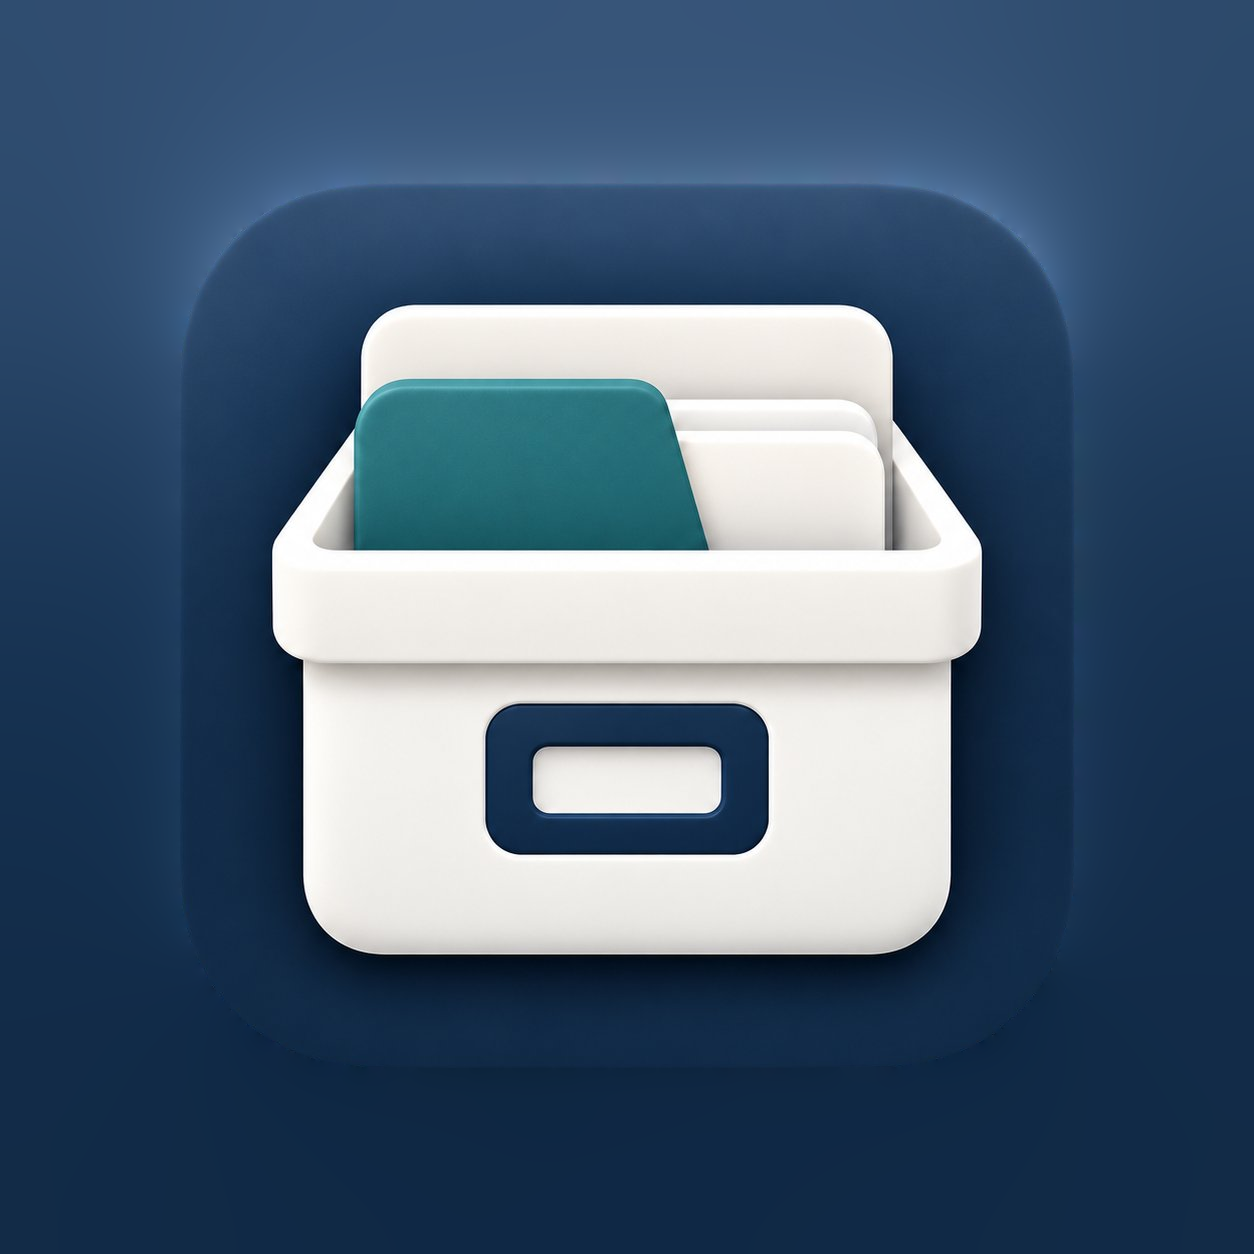
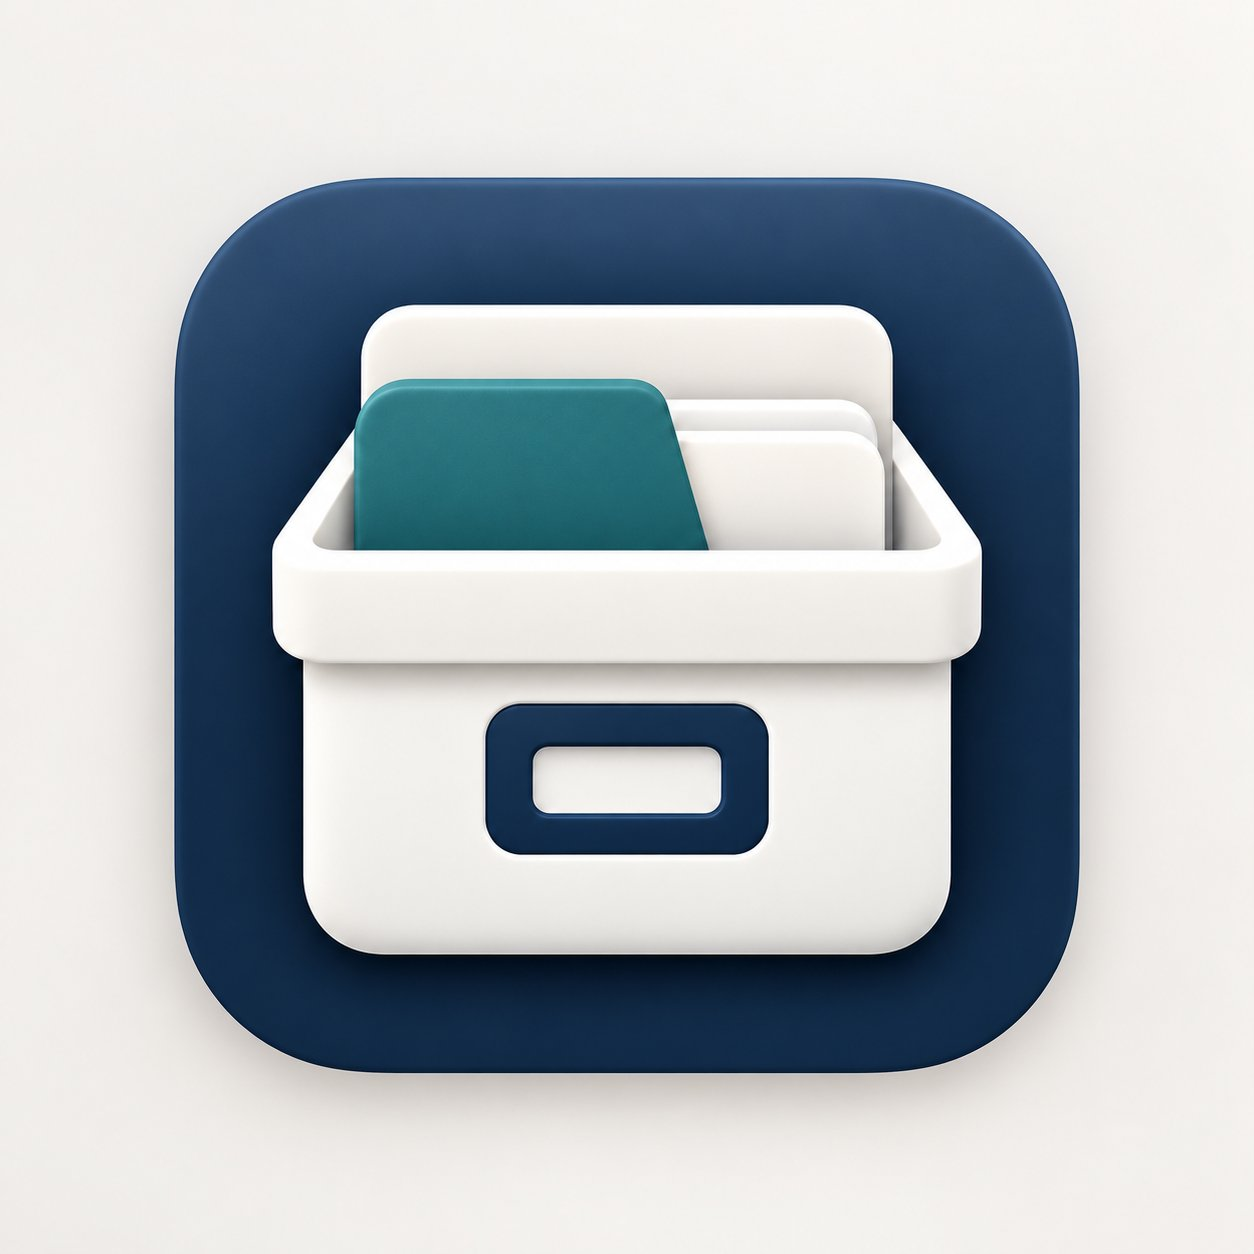
fix(branding): restore light warm background as part of the master
上一轮把交付图外围的浅暖灰底用谐波扩散外延成深蓝，得到"蓝色大底 + 深蓝内板"的框套框，
并吃掉了为 iOS 自动 Dark treatment 预留的明亮区域。本轮纠正：**浅底是设计的一部分**。

母版
- assets/app-icons/app-icon-master-1254.png 改为**交付原图直转 PNG**：1254×1254、RGB 不透明、
  浅暖灰底铺满画布四角（四角亮度 235~247、R>B）+ 深蓝圆角内板（仍占 72.2%）+ 白色收纳盒 + teal 卡，
  全部保持设计原样。自检：与交付原图像素 md5 一致
- 外层圆角不预烘焙，交给 iOS / Android 自己裁

生成器
- **删除一切背景合成能力**：只做 PNG 解码 → Lanczos3 缩放 → PNG 编码
- 四角校验换语义：assertNoWhiteCorners（拒绝浅色）→ assertFullBleedCorners
  （四角必须是同一个连续背景，四角色差 ≤ 120）；浅色/深色背景都合法，只拒绝人工白边、
  单角补丁与透明圆角
- maskable 判据改两级：背景=四角中位色 → 内板=与背景色差 > 60 → 核心主体=内板深处（行/列各收缩
  5% 边长以排除贴边软投影）中明显亮于内板的像素（=盒体）。旧的一级判据会被投影污染成 0.4523 误报；
  两级后 rmax = 0.3413 ≤ 0.4
- apple-touch-icon 换名 -v4（内容实质变化 → 按既定 cache-bust 规则换 URL），-v3 由生成器自动清除

验证
- 验收实测：母版 / 512 / 180 / 32 四角全部浅暖灰（亮度 235~246、R>B）；中心为盒体、内板位置仍为深蓝；
  与 Pillow LANCZOS 参考逐像素 maxΔ=1
- typecheck 干净；**658** 单测通过（图标契约 17 项，新增"生成器不得出现 Laplace / 谐波扩散"锁）
- build 绿；precache 326 条 / 1173.71 KiB；dist 与 sw.js 中的 App Icon 恰为这 5 个
- 全新 profile 端到端 22/22：v4 路径 200、5 个旧图标不再返回 PNG、浅/深色都只抓同一 favicon、
  无 404、SW precache 无双轨残留、断网 App Shell 仍可打开
- 未改 APP_VERSION（仍 1.0.0），未动 UI / 数据库 / 同步 / 备份

diff --git a/src/data/pwaIcons.test.ts b/src/data/pwaIcons.test.ts
@@ -35,7 +35,7 @@ const masterPaths = namesIn(
 )
 
 const EXPECTED = [
-  { name: 'apple-touch-icon-180x180-v3.png', size: 180 },
+  { name: 'apple-touch-icon-180x180-v4.png', size: 180 },
   { name: 'favicon-32x32.png', size: 32 },
   { name: 'maskable-512x512.png', size: 512 },
   { name: 'pwa-192x192.png', size: 192 },
@@ -99,11 +99,19 @@ describe('PWA 图标资产（单一正式图标）', () => {
     expect(generator).not.toMatch(/source:\s*'/)
   })
 
-  it('生成器带「母版必须不透明 / 四角不得是白边」守卫', () => {
-    // 这两条守卫是"只缩放、不重绘"的强制手段：透明圆角与白边都会在生成阶段直接失败
+  it('生成器带「母版必须不透明 / 四角是同一个连续背景」守卫', () => {
+    // 这条守卫是"只缩放、不重绘背景"的强制手段：
+    // 透明圆角、人工白边、单角补丁都会在生成阶段直接失败；而浅色或深色背景本身都是合法的
     expect(generator).toContain('母版必须完全不透明')
-    expect(generator).toContain('assertNoWhiteCorners')
+    expect(generator).toContain('assertFullBleedCorners')
+    expect(generator).toContain('MAX_CORNER_SPREAD')
     expect(generator).toContain('MIN_MASTER_SIZE')
+  })
+
+  it('生成器不再做任何背景合成（Laplace / 谐波扩散已彻底删除）', () => {
+    // 浅暖灰背景是**设计的一部分**（为 iOS 自动 Dark treatment 预留的明亮区域），
+    // 曾经被谐波扩散成深蓝，造成"蓝色大底 + 深蓝内板"的框套框 —— 这里锁死不再复发。
+    expect(generator).not.toMatch(/Laplace|谐波扩散|harmonic/)
   })
 
   it('maskable 走安全区自动校验，而不是靠补白边', () => {
@@ -132,12 +140,18 @@ describe('PWA 图标资产（单一正式图标）', () => {
 
   it('index.html：恰好一条 apple-touch-icon，且指向带版本的新文件名', () => {
     const appleHrefs = [...html.matchAll(/rel="apple-touch-icon"\s+href="([^"]+)"/g)].map((m) => m[1])
-    expect(appleHrefs).toEqual(['/icons/pwa/apple-touch-icon-180x180-v3.png'])
+    expect(appleHrefs).toEqual(['/icons/pwa/apple-touch-icon-180x180-v4.png'])
     // 旧路径不能以任何 href 形式残留（注释里提到旧文件名是刻意的说明文字，不算引用）
     expect(html).not.toMatch(/href="[^"]*apple-touch-icon-180x180\.png/)
     expect(html).not.toMatch(/href="[^"]*apple-touch-icon-180x180-v2\.png/)
-    expect(pwaIconPaths).not.toContain('apple-touch-icon-180x180.png')
-    expect(pwaIconPaths).not.toContain('apple-touch-icon-180x180-v2.png')
+    expect(html).not.toMatch(/href="[^"]*apple-touch-icon-180x180-v3\.png/)
+    for (const gone of [
+      'apple-touch-icon-180x180.png',
+      'apple-touch-icon-180x180-v2.png',
+      'apple-touch-icon-180x180-v3.png',
+    ]) {
+      expect(pwaIconPaths).not.toContain(gone)
+    }
   })
 
   it('index.html：恰好一条 favicon，且不带 media（不做 light/dark 主题切换）', () => {

diff --git a/index.html b/index.html
@@ -49,7 +49,7 @@
       文件名带 -v3：iOS 对 apple-touch-icon 缓存极强，换 URL 是唯一可靠的 cache bust 手段
       （旧文件 apple-touch-icon-180x180.png / -v2.png 均已由生成器删除，不再存在）。
     -->
-    <link rel="apple-touch-icon" href="/icons/pwa/apple-touch-icon-180x180-v3.png" />
+    <link rel="apple-touch-icon" href="/icons/pwa/apple-touch-icon-180x180-v4.png" />
     <meta name="apple-mobile-web-app-capable" content="yes" />
     <meta name="mobile-web-app-capable" content="yes" />
     <meta name="apple-mobile-web-app-status-bar-style" content="default" />

diff --git a/README.md b/README.md
@@ -362,8 +362,12 @@ Phase 2G 新增 **83** 个，并开出「护理」「厨房」两个新分类，
 
 ## PWA App Icon（Archive Box · 单一正式图标）
 
-主屏图标为 **Archive Box / 收纳档案盒**——深蓝底板上一只浅色收纳盒，盒中露出分类卡（最前一张为品牌青绿），
-盒正面有标签槽。
+主屏图标为 **Archive Box / 收纳档案盒**——**浅暖灰底**上托着一块深蓝圆角内板，板上是一只浅色收纳盒，
+盒中露出分类卡（最前一张为品牌青绿），盒正面有标签槽。
+
+浅暖灰背景（≈244,240,237，R>B 的暖灰）**是设计的一部分**，不是需要裁掉的预览底：
+它铺满画布四角，正是为 iOS 自动 Dark treatment 预留的明亮区域——iOS 在深色模式下把整张图整体压暗时，
+浅底会变成深灰、内板与盒体的层次仍在。
 
 本项目采用**单一正式图标**方案（已不再是 light/dark 双母版）：
 
@@ -374,13 +378,13 @@ Phase 2G 新增 **83** 个，并开出「护理」「厨房」两个新分类，
 唯一母版：`assets/app-icons/app-icon-master-1254.png`（1254×1254、full-bleed、不透明、无预烘焙圆角、无白边）。
 它放在 `assets/` 而**不是 `public/`**：母版只作为生成器的输入，不进构建产物、不进 precache。
 
-> **母版来源（可审计）**：设计交付的定稿是 **1254×1254 的预览式图**——深蓝圆角方块只占画布 72.2%、
-> 四角是浅灰底（≈244,240,237）、带外投影，**无法直接当 full-bleed 母版**。因此用一次性推导脚本
-> （临时工具，不入库）把方块**之外**的区域用**谐波扩散（Laplace 解）**从方块边缘颜色平滑外延成同色底：
-> 预烘焙圆角与外投影被吸收、画布变 full-bleed，而**方块内所有像素（含收纳盒与其投影）逐像素保持原样**
-> （自检：known 区域与源图最大差异 = 0；未知区域残差 max 0.005）。主体仍在 maskable 安全圆内（半径 0.3413）。
-> 若拿到真正的平面导出（1024 PNG、无圆角、无浅底、无投影），直接覆盖该文件并跑 `npm run icons` 即可，
-> **不需要改任何代码**（生成器只校验"正方形 / 不透明 / 四角非白 / 边长 512~4096"）。
+> **母版来源（可审计）**：设计交付的定稿是 **1254×1254**，**直接无损转成 PNG 就是母版**——
+> 浅暖灰底铺满画布四角（full-bleed）+ 深蓝圆角内板 + 白色收纳盒 + teal 文件卡，全部保持设计原样
+> （自检：母版与交付原图**逐像素 md5 一致**）。外层圆角留给 iOS / Android 自己裁，**不预烘焙**；
+> 生成器对母版**只做缩放，不做任何绘制**。
+>
+> ❌ 历史弯路（已纠正并写进测试锁死）：曾把外围浅底用谐波扩散外延成深蓝，得到"蓝色大底 + 深蓝内板"的
+> **框套框**，同时吃掉了为 iOS Dark treatment 预留的明亮区域。现在改成别的背景色会直接违反契约测试。
 
 派生尺寸全部由 **`scripts/gen-pwa-icons.mjs`** 从母版**等比例高质量缩放**（分离式 Lanczos3）生成——
 这是唯一入口，**不要手改 `public/icons/pwa/*.png`**：
@@ -390,7 +394,7 @@ Phase 2G 新增 **83** 个，并开出「护理」「厨房」两个新分类，
 | `pwa-192x192.png` | 192×192 | manifest `purpose: any` |
 | `pwa-512x512.png` | 512×512 | manifest `purpose: any` |
 | `maskable-512x512.png` | 512×512 | manifest `purpose: maskable`（Android 自适应裁切） |
-| `apple-touch-icon-180x180-v3.png` | 180×180 | iOS 主屏图标（`index.html` 的 `apple-touch-icon`） |
+| `apple-touch-icon-180x180-v4.png` | 180×180 | iOS 主屏图标（`index.html` 的 `apple-touch-icon`） |
 | `favicon-32x32.png` | 32×32 | 浏览器标签页图标（单一，不做主题切换） |
 
 ### 生成器只做"缩放"，不做"重绘"
@@ -399,26 +403,29 @@ Phase 2G 新增 **83** 个，并开出「护理」「厨房」两个新分类，
 
 - 母版必须是**正方形**、bit depth 8、非隔行，边长在 512~4096 之间；
 - 母版必须**完全不透明**（拒绝透明圆角）；
-- 母版**四角必须是有色画面**（拒绝白边 / 白底裁圆角）；
-- **maskable 安全区自动校验**：主体最大半径必须 ≤ **0.4**（Google maskable 规范）。不满足就报错让人回去改母版，
-  而不是在生成端补白边。当前母版实测 **0.3413**，因此 `maskable-512x512.png` 与 `pwa-512x512.png`
+- 母版四角必须是**同一个连续背景**（`assertFullBleedCorners`，四角色差 ≤ 120）：拒绝人工白边、单角补丁、
+  透明圆角；**允许渐变，也允许浅色或深色背景**（浅底是本设计的正式选择）；
+- **maskable 安全区自动校验**：**核心主体（盒体 / 卡片）**最大半径必须 ≤ **0.4**（Google maskable 规范）。
+  判据是两级的：先以四角中位色定背景、与背景差异大的像素定为内板，再取内板深处中比内板明显更亮的像素
+  作为核心主体（这样紧贴内板外缘的软投影不会污染判定）。不满足就报错让人回去改母版，而不是在生成端补白边。
+  当前母版实测 **0.3413**，因此 `maskable-512x512.png` 与 `pwa-512x512.png`
   **逐字节相同**——`src/data/pwaIcons.test.ts` 直接断言这一点，将来若要为 maskable 单独缩小构图，
   测试会失败，也就是一次"有意识的决定"；
 - 每个文件写盘后**回读校验尺寸**；输出目录里不属于 targets 的 PNG **直接删除**——双图标时代的
-  `favicon-light-32x32.png` / `favicon-dark-32x32.png` / `apple-touch-icon-180x180-v2.png`
-  就是这样被清掉的。
+  `favicon-light-32x32.png` / `favicon-dark-32x32.png` / `apple-touch-icon-180x180-v2.png` /
+  `apple-touch-icon-180x180-v3.png` 就是这样被清掉的。
 
 生成器零依赖（Node 内置 zlib 手写 PNG 解码 / 编码），且确定性（连跑两次输出 md5 一致）。
 缩放正确性做过交叉验证：与 Pillow 的 LANCZOS 参考实现逐像素比对，**最大偏差 1/255**。
 
-契约由 `src/data/pwaIcons.test.ts`（**16** 项）锁定：targets 与产物一一对应、输入源是唯一一张母版、
+契约由 `src/data/pwaIcons.test.ts`（**17** 项）锁定：targets 与产物一一对应、输入源是唯一一张母版、
 **不存在 light/dark 双轨残留**、`index.html` 恰好一条 favicon（无 `media`）+ 一条 apple-touch-icon、
 manifest 三条 icons 全部能在 targets 表里找到。
 
 ### apple-touch-icon 的 cache bust
 
 iOS 对 `apple-touch-icon` 的缓存极强，覆盖同名文件往往不生效，因此沿用**带版本的新文件名**：
-`apple-touch-icon-180x180-v3.png`（`-v2` 与无版本文件均已由生成器删除）。不追加 query string——
+`apple-touch-icon-180x180-v4.png`（`-v2` / `-v3` 与无版本文件均已由生成器删除）。不追加 query string——
 本仓库没有这个惯例。Android / 桌面端的缓存失效由 workbox 的 `revision` 内容哈希承担，无需改名。
 
 > ⚠ 已经装在 iOS 主屏上的图标**不会**因为换文件而自动更新：删掉旧的主屏快捷方式、从 Safari 重新
